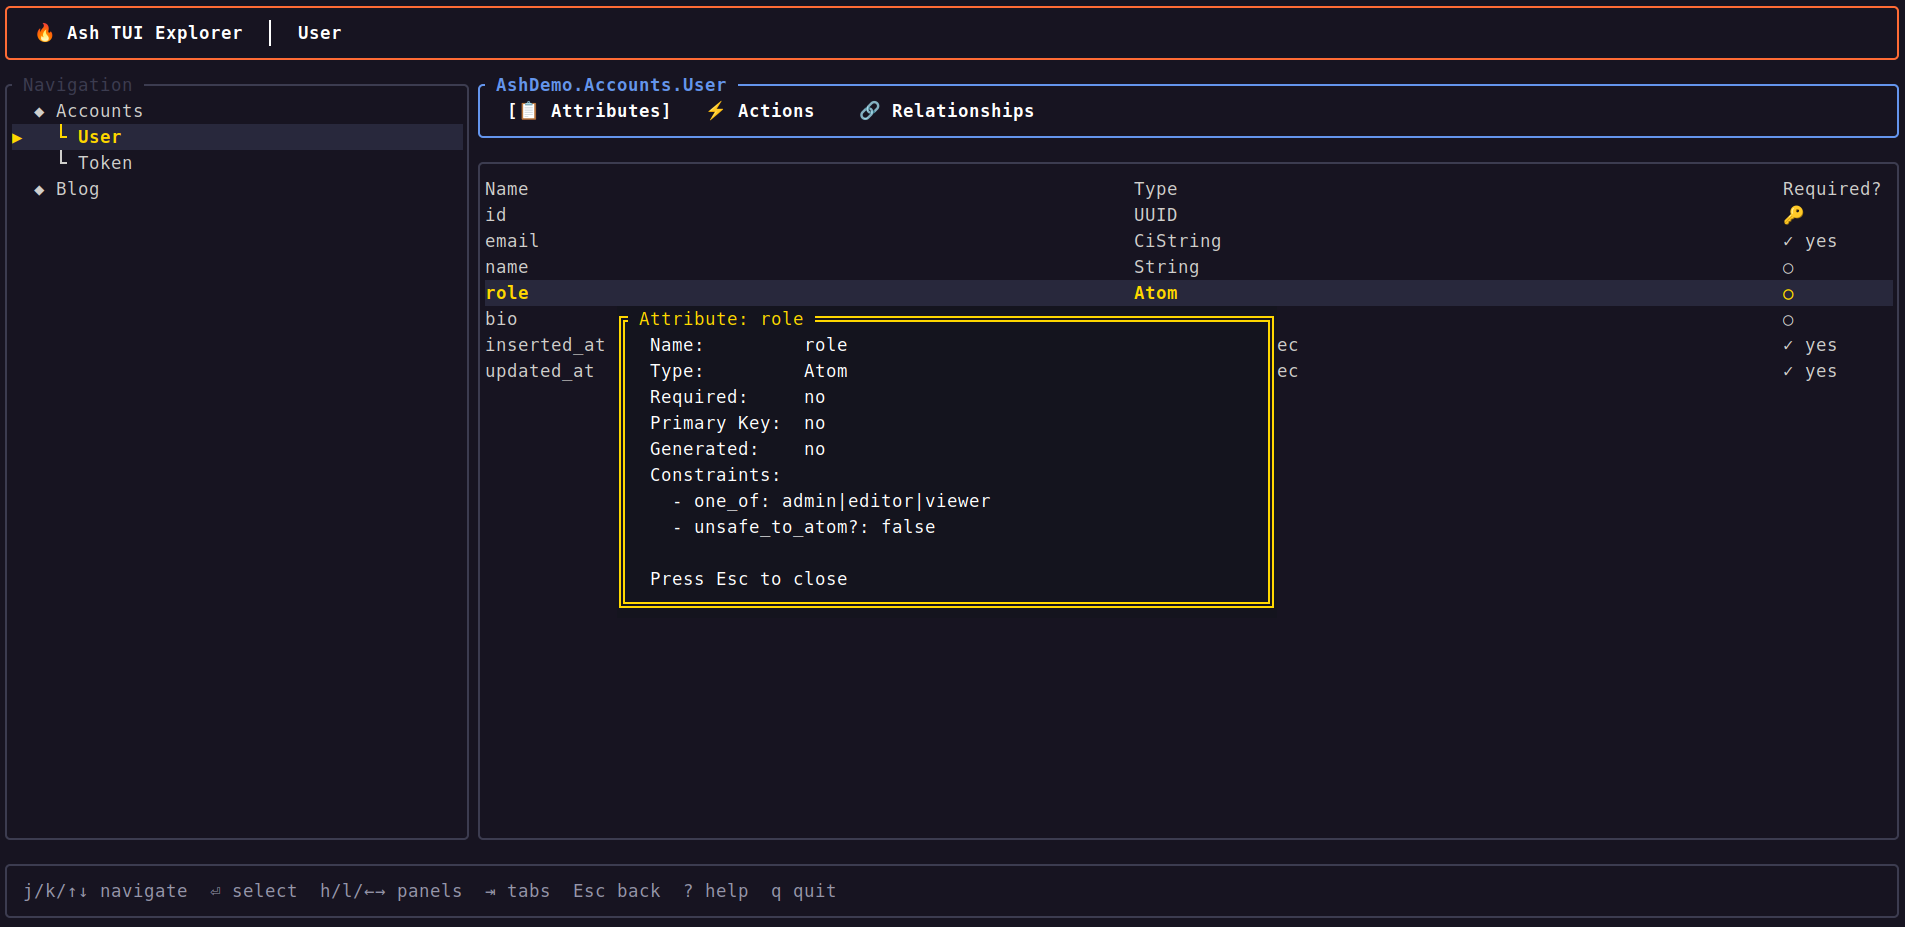
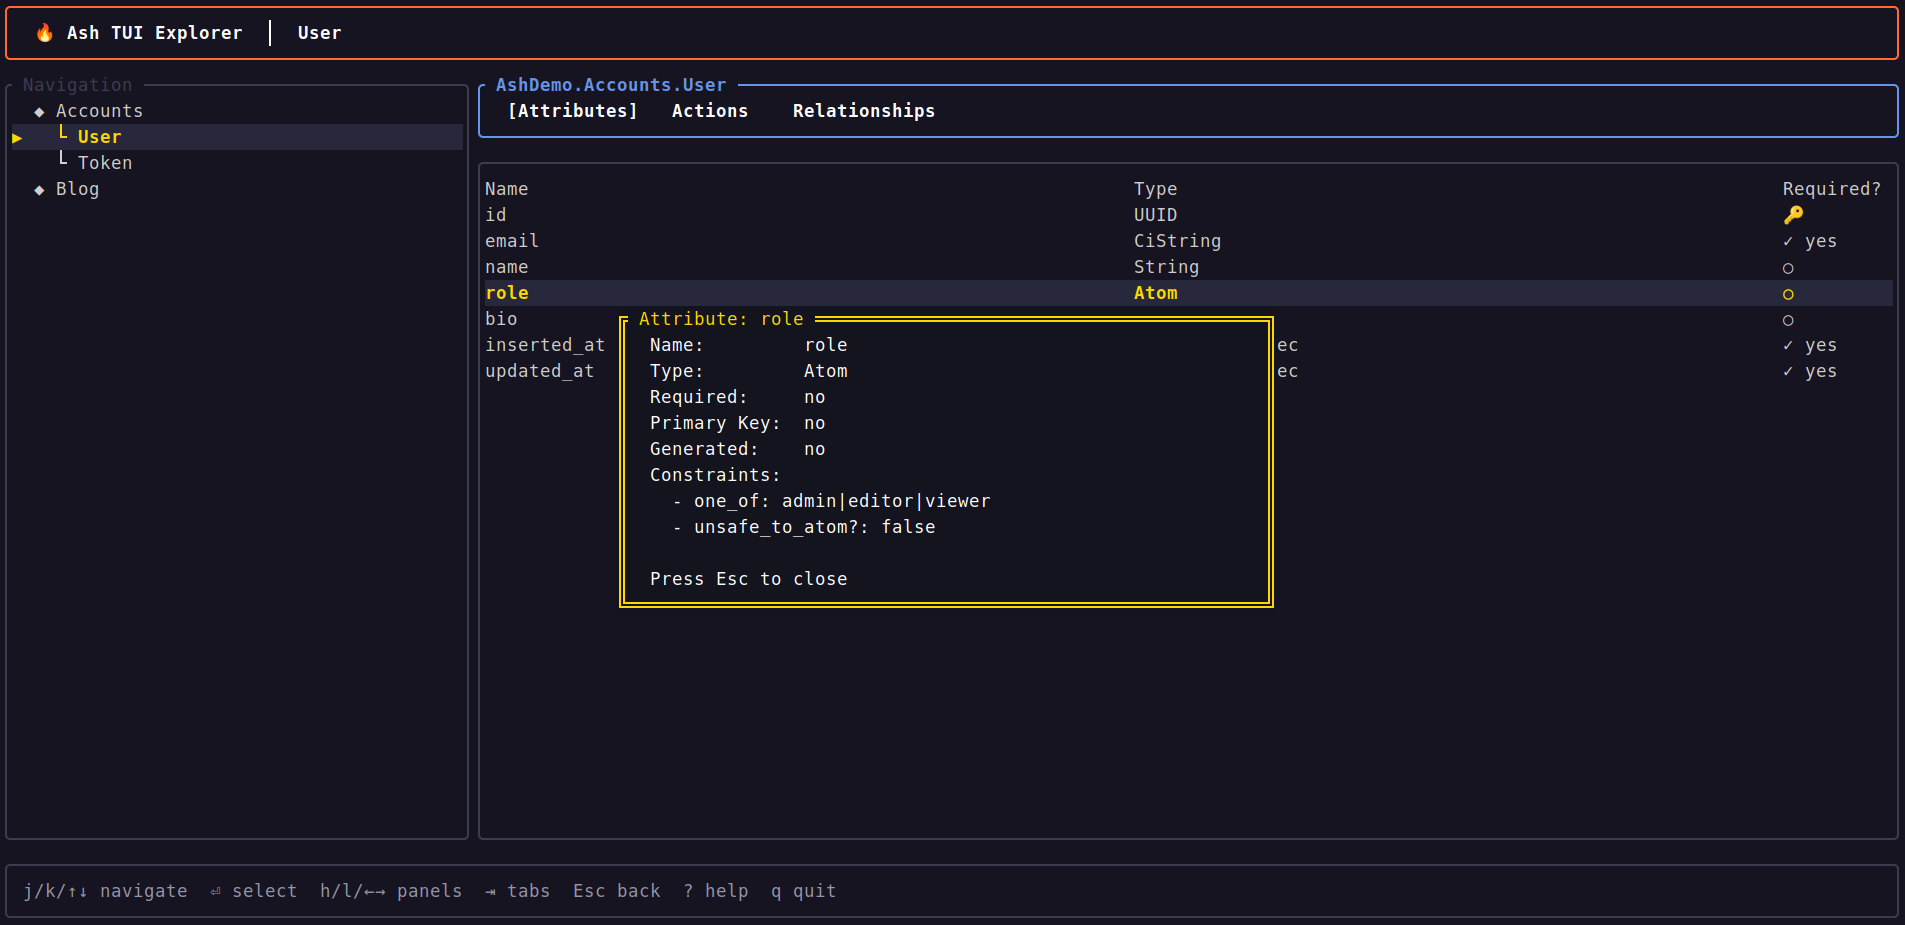
chore: release v0.1.1

diff --git a/CHANGELOG.md b/CHANGELOG.md
@@ -7,6 +7,13 @@ and this project adheres to [Semantic Versioning](https://semver.org/spec/v2.0.0
 
 ## [Unreleased]
 
+## [0.1.1] - 2026-03-09
+
+## Fixed
+
+- Removed some unnecessary emojis
+- Update links on docs
+
 ## [0.1.0] - 2026-03-06
 
 ### Added
@@ -29,3 +36,7 @@ and this project adheres to [Semantic Versioning](https://semver.org/spec/v2.0.0
 - `AshTui.Views.AttributeDetail` view module for rendering the overlay
 - Footer keybinding hints now show `j/k/h/l` alongside arrow keys
 - Removed Constraints column from the attributes table to avoid truncation — constraints are now shown in the attribute detail overlay instead
+
+[Unreleased]: https://github.com/mcass19/ash_tui/compare/v0.1.1...HEAD
+[0.1.1]: https://github.com/mcass19/ash_tui/compare/v0.1.0...v0.1.1
+[0.1.0]: https://github.com/mcass19/ash_tui/releases/tag/v0.1.0

diff --git a/README.md b/README.md
@@ -48,7 +48,7 @@ Add `ash_tui` to your dependencies (`:dev` only recommended):
 ```elixir
 def deps do
   [
-    {:ash_tui, "~> 0.1.0", only: :dev}
+    {:ash_tui, "~> 0.1", only: :dev}
   ]
 end
 ```
